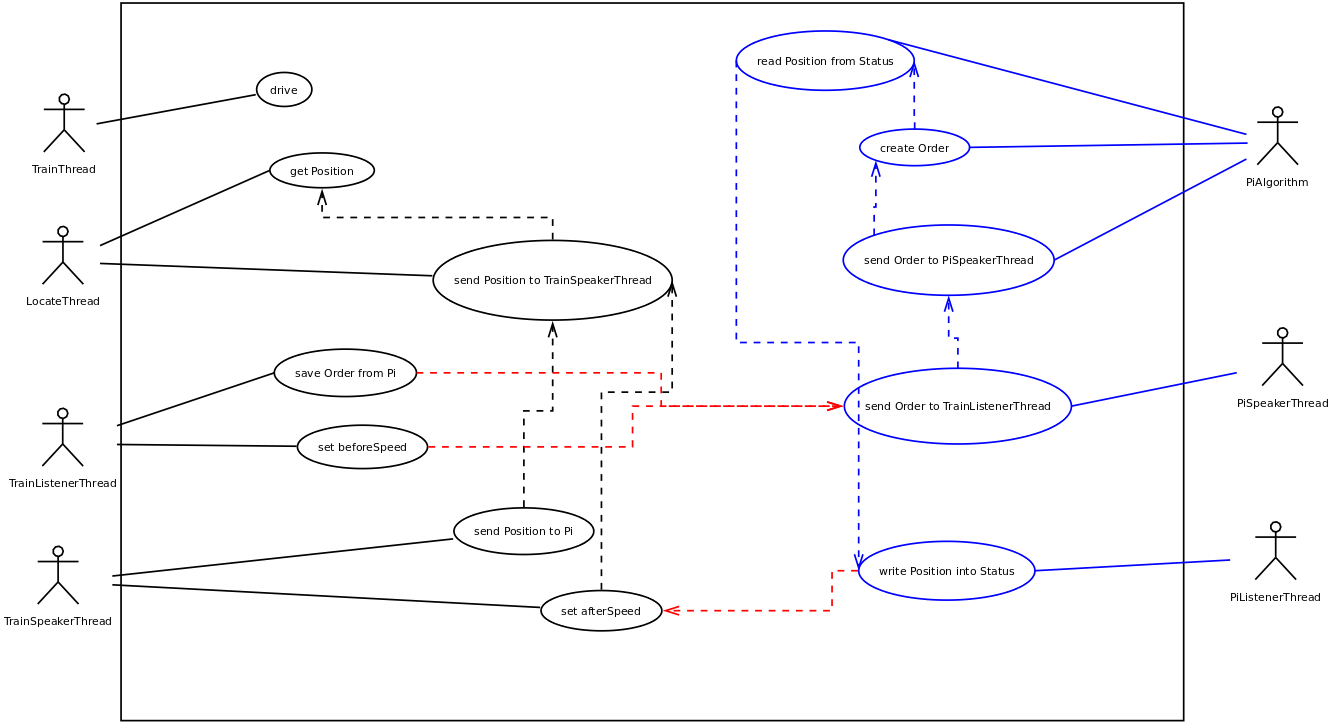
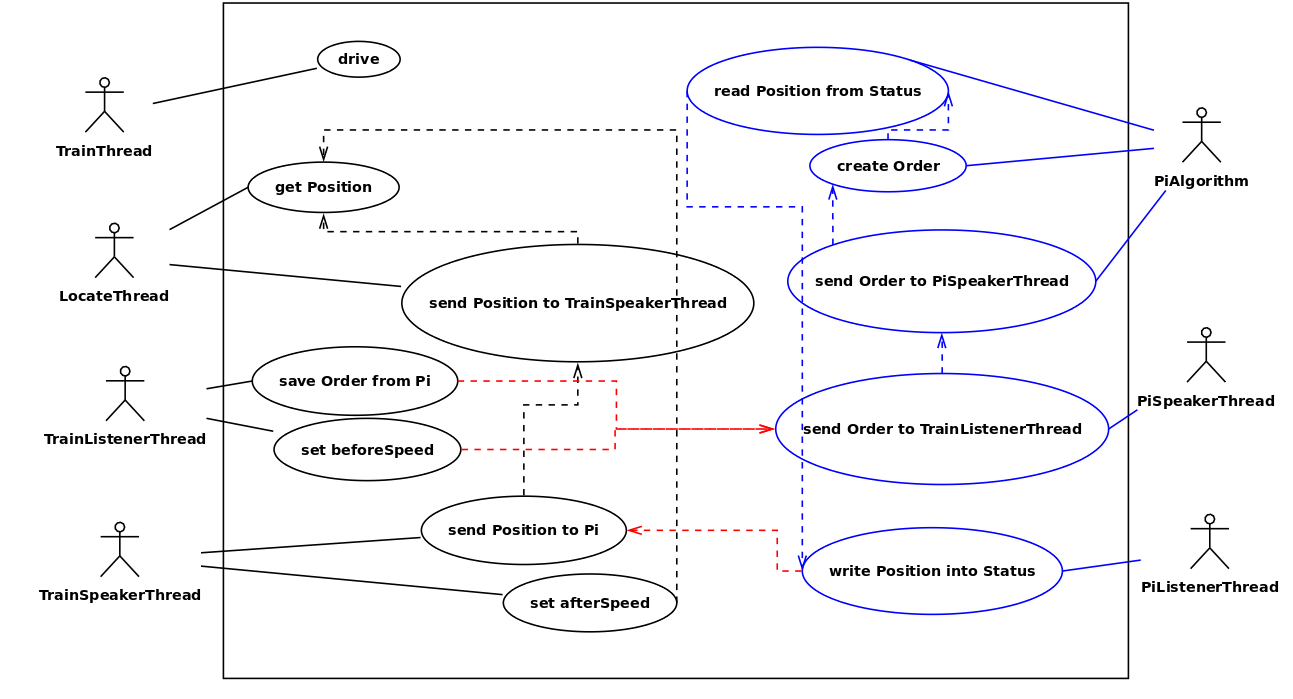
minor changes, added some graphics

diff --git a/Dokumentation/content/alg.tex b/Dokumentation/content/alg.tex
@@ -132,7 +132,7 @@ Dabei sind folgende Bemerkungen wichtig:\\
 \label{pic:DiagonaleVersetzt}
 \end{figure}
 \noindent
-Damit man die Versetzung der Hauptdiagonale besser versteht, kann man sich die vorgenommene Transformation der Matrix folgend vorstellen: Die ersten zwei Zeilen werden ausgeschnitten und nach der Zeile "B2" hinzugefügt. So definiert die Startposition des Zuges immer die "pseudo-erste" Zeile der Matrix. Dabei werden die Elemente in der Matrix nicht unnötig kopiert - die Iteration durch die Matrix wird später lediglich anhand des Modulo-Operators angepasst. Aus Bequemlichkeit betrachten wir nun das Beispiel, in dem der Zug am Bahnhof 0 startet.\\
+Damit man die Versetzung der Hauptdiagonale besser versteht, kann man sich die vorgenommene Transformation der Matrix folgend vorstellen: Die ersten zwei Zeilen werden ausgeschnitten und nach der Zeile "B3" hinzugefügt. So definiert die Startposition des Zuges immer die "pseudo-erste" Zeile der Matrix. Dabei werden die Elemente in der Matrix nicht unnötig kopiert - die Iteration durch die Matrix wird später lediglich anhand des Modulo-Operators angepasst. Aus Bequemlichkeit betrachten wir nun das Beispiel, in dem der Zug am Bahnhof 0 startet.\\
 \\
 \textit{\textbf{Wie erstellt der Algorithmus die Liste von Anweisungen?}\\}
 \\
@@ -156,6 +156,7 @@ Die Matrix wird dreimal durchgelaufen.\\
 4) Nun muss man das letzte Element mit dem Wert "true" in \textit{stop} finden. Dies ist die Endstation des Zuges. Falls ein solches gar nicht vorhanden ist, hat der Zug laut der Eingabe des Nutzers nichts zu tun. In unserem Fall sieht das Feld \textit{stop} folgendermaßen aus:\\
 \begin{figure}[H]	
 \caption{Hilfsfeld \textit{stop}}
+\center
 \includegraphics[width=2\textwidth, width=290pt]{content/images/stop1.png}
 \label{pic:stop1}
 \end{figure}
@@ -183,7 +184,8 @@ Damit die Aufgabe schwieriger wird und gleichzeitig um den oben genannten Ansatz
 \\
 \begin{figure}[H]	
 \caption{Szenario 2}
-\includegraphics[width=2\textwidth, width=450pt]{content/images/szenario2.png}
+\center
+\includegraphics[width=2\textwidth, width=350pt]{content/images/szenario2.png}
 \label{pic:szenario2}
 \end{figure}
 \noindent
@@ -219,7 +221,7 @@ Es kann passieren, dass der Zug einen RFID-Tag überfährt, ohne ihn zu erkennen
 \chapter{Semaphore}
 Die Semaphore und ihr Einsatz werden anhand der Implementierung an der Pi-Seite erklärt.\\
 \\
-Nachdem der Algorithmus die Eingaben des Nutzers gespeichert hat, braucht er die Start-Position des Zuges, damit er die Liste von Anweisungen erstellen kann. Diese erfährt er mithilfe von der Methode \textit{readTrainPosition()}. Der Wert darf allerdings erst dann gelesen werden, wenn der Zug ihn dem PiListenerThread mitgeteilt hat. Bevor das passiert, darf der Algorithmus nichts machen und muss blockiert sein. Die einfache Lösung, die sich anbieten könnte, besteht darin, dass man eine weitere Methode \textit{algorithmCanRead()} hinzufügt, die ein "Flag" - eine boolesche Variable überprüft, die vom PiListenerThread auf "erlaubt" gesetzt wird, sobald die Position aktualisiert wurde. Der Algorithmus liest die Position und setzt das "Flag" selbst auf "nicht erlaubt" - damit er sie nicht wieder liest, bevor eine neue Position vom Zug mitgeteilt worden ist. Das Wort "blockiert" ist hier entscheidend. Wie oft soll das "Flag" überprüft werden? Wie lange soll der Algorithmus blockiert werden? Wie bekommt er rechtzeitig mit, dass die Position aktualisiert wurde? Der oben genannte Ansatz verlängt Polling, d.h. Ressourcen(Rechenzeit)-Verschwendung. Die richtige Lösung an dieser Stelle ist der Einsatz von Semaphoren.\\
+Nachdem der Algorithmus die Eingaben des Nutzers gespeichert hat, braucht er die Start-Position des Zuges, damit er die Liste von Anweisungen erstellen kann. Diese erfährt er mithilfe von der Methode \textit{readTrainPosition()}. Der Wert darf allerdings erst dann gelesen werden, wenn der Zug ihn dem PiListenerThread mitgeteilt hat. Bevor das passiert, darf der Algorithmus nichts machen und muss blockiert sein. Die einfache Lösung, die sich anbieten könnte, besteht darin, dass man eine weitere Methode \textit{algorithmCanRead()} hinzufügt, die ein "Flag" - eine boolesche Variable - überprüft, die vom PiListenerThread auf "erlaubt" gesetzt wird, sobald die Position aktualisiert wurde. Der Algorithmus liest die Position und setzt das "Flag" selbst auf "nicht erlaubt" - damit er sie nicht wieder liest, bevor eine neue Position vom Zug mitgeteilt worden ist. Das Wort "blockiert" ist hier entscheidend. Wie oft soll das "Flag" überprüft werden? Wie lange soll der Algorithmus blockiert werden? Wie bekommt er rechtzeitig mit, dass die Position aktualisiert wurde? Der oben genannte Ansatz verlängt Polling, d.h. Ressourcen(Rechenzeit)-Verschwendung. Die richtige Lösung an dieser Stelle ist der Einsatz von Semaphoren.\\
 \\
 Rhapsody bietet eine Factory von Semaphoren an. Ein Factory-Objekt verfügt über eine Methode \textit{createOMOSSemaphore()}, die den Zeiger auf eine neuerstellte Semaphore zurückliefert. Bei der Erzeugung kann man definieren, ob die Semaphore frei ist oder blockieren soll (das Attribut \textit{initialCount}, by default gleich 1) und wie groß der maximale Wert (das Attribut \textit{maxCount}, bezeichnet die Anzahl von Ressourcen, by default auch 1) sein soll. Die Semaphore bietet die Methoden \textit{p()} (Ressource nehmen) und \textit{v()} (Ressource freigeben), die hier \textit{wait(-1)} und \textit{signal()} genannt werden. Wenn ein Thread \textit{wait(-1)} aufruft, während \textit{initialCount} den Wert 0 hat (keine Ressourcen vorhanden), wird er blockiert. \textit{Signal}() blockiert, wenn \textit{initialCount} gleich \textit{maxCount} ist, allerdings nicht bei allen Plattformen.\\
 In unserem Fall ist es wichtig, dass signal() auch blockiert, denn wir wollen nicht, dass der PiListenerThread die Position des Zuges aktualisiert, bevor der Algorithmus (der aus irgendwelchem Grund zu langsam war) die alte Position einmal gelesen hat. Dies würde dazu führen, dass der Algorithmus nicht mitbekommt, dass der Zug da war, wo er sein musste, und dass der Zug seine Position richtig erkannt hat, und es wird \textit{repairOrderlist}()-Methode aufgerufen.\\

diff --git a/Dokumentation/content/architecture.tex b/Dokumentation/content/architecture.tex
@@ -1,8 +1,8 @@
 \chapter{Architektur}
-Nachdem wir unser Projektziel für uns gesetzt hatten, mussten wir überlegen, wie es sich realisieren lässt. Als erstes einigten wir uns darauf, dass wir einen Raspberry Pi für die externe Zugsteuerung benutzen. Dann mussten wir uns überlegen, wie wir den Zug mit dem Raspberry Pi kommunizieren lassen, damit die Geräte Information zwischen einander austauschen können. Bevor wir das allerdings entscheiden konnten, haben wir geschaut was der Zug und der Raspberry Pi machen müssen.
-
-Zuerst haben wir uns überlegt, was der Zug können muss, was vereinfacht gesagt lediglich das Transportieren von Fahrgästen von einem Bahnhof zu einem anderen Bahnhof ist. Daraus konnten wir ableiten, dass die Erkennung seiner aktuellen Position eine der wichtigsten Aufgaben des Zuges ist, denn wenn wir nicht wissen, wo der Zug ist, können wir ihm auch nicht sagen, wo er hinfahren soll. Des weiteren muss der Zug einstellen können, wie schnell er fährt, und Information übermitteln können. Damit hatten wir den ersten Entwurf der Funktionalität des Zuges bestimmt und konnten uns dem Raspberry Pi zuwenden. Dieser muss als eine externe Steuereinheit bestimmen, welchen Weg der Zug fahren soll. Dazu braucht er die Informationen über die Position des Zuges, an welchem Bahnhof Personen stehen und wohin diese gehen wollen. Des weiteren muss er dem Zug übermitteln können, wohin er als nächstes fahren soll. Mit unseren Überlegungen hatten wir schon automatisch unsere dritte Frage beantwortet. Denn der Zug muss dem Raspberry Pi seine aktuelle Position übermitteln und der Raspberry Pi muss dem Zug einen Befehl schicken, wohin und mit welcher Geschwindigkeit er als nächstes fahren soll. 
-
+Nachdem wir unser Projektziel für uns gesetzt hatten, mussten wir überlegen, wie es sich realisieren lässt. Als erstes einigten wir uns darauf, dass wir einen Raspberry Pi für die externe Zugsteuerung benutzen. Dann mussten wir uns überlegen, wie wir den Zug mit dem Raspberry Pi kommunizieren lassen, damit die Geräte Information zwischen einander austauschen können. Bevor wir das allerdings entscheiden konnten, haben wir geschaut was der Zug und der Raspberry Pi machen müssen.\\
+\\
+Zuerst haben wir uns überlegt, was der Zug können muss, was vereinfacht gesagt lediglich das Transportieren von Fahrgästen von einem Bahnhof zu einem anderen Bahnhof ist. Daraus konnten wir ableiten, dass die Erkennung seiner aktuellen Position eine der wichtigsten Aufgaben des Zuges ist, denn wenn wir nicht wissen, wo der Zug ist, können wir ihm auch nicht sagen, wo er hinfahren soll. Des weiteren muss der Zug einstellen können, wie schnell er fährt, und Information übermitteln können. Damit hatten wir den ersten Entwurf der Funktionalität des Zuges bestimmt und konnten uns dem Raspberry Pi zuwenden. Dieser muss als eine externe Steuereinheit bestimmen, welchen Weg der Zug fahren soll. Dazu braucht er die Informationen über die Position des Zuges, an welchem Bahnhof Personen stehen und wohin diese gehen wollen. Des weiteren muss er dem Zug übermitteln können, wohin er als nächstes fahren soll. Mit unseren Überlegungen hatten wir schon automatisch unsere dritte Frage beantwortet. Denn der Zug muss dem Raspberry Pi seine aktuelle Position übermitteln und der Raspberry Pi muss dem Zug einen Befehl schicken, wohin und mit welcher Geschwindigkeit er als nächstes fahren soll. \\
+\\
 Nachdem wir unsere Fragen beantwortet hatten, wollten wir diese mit Hilfe eines Klassendiagramms konkretisieren (siehe Abbildung \ref{pic:ClassDiagram}). Im Nachfolgenden sind alle Klassen, die Thread in ihrem Namen haben, auch Threads. \textit{LocateThread} in der Train-Komponente des Klassendiagramms beschäftigt sich ausschließlich mit der Bestimmung der Position des Zuges. Zur Bestimmung der Position haben wir auf der Strecke RFID-Tags verteilt, die \textit{LocateThread} beim Überfahren lesen kann und die er weiter an \textit{TrainSpeakerThread} schickt. Dieser vergleicht nach dem Erhalten der Position diese mit der eingetragenen Position in \textit{Order}. Falls die Positionen sich unterscheiden, ist entweder etwas schiefgelaufen oder der Zug ist gerade erst angefahren und hat zum ersten mal seine Position bestimmt. In beiden Fällen wird die Geschwindigkeit des Zuges auf 0 gesetzt und er wartet somit auf weitere Befehle. Falls die Positionen gleich sind, wird die \textit{afterSpeed} Geschwindigkeit aus \textit{Order} genommen und dem \textit{TrainThread} übermittelt, welcher dann diese Geschwindigkeit setzt. Als letztes schickt \textit{TrainSpeakerThread} über eine Socket-Verbindung die Position des Zuges an den Raspberry Pi. Diese Nachricht kommt dann an \textit{PiListenerThread}, welcher diese in \textit{TrainStatus} abspeichert. Danach kann \textit{PiAlgorithm} die aktuelle Position des Zuges aus \textit{TrainStatus} auslesen und bestimmen, wohin der Zug als nächstes fahren soll(genaueres wird im Kapitel Algorithmus erklärt). Diesen Befehl schickt er an \textit{PiSpeakerThread}, welcher diesen weiter über die Socket-Verbindung schickt. Der Befehl wird von \textit{TrainListenerThread} erhalten, welcher den Befehl in \textit{Order} speichert. Zuletzt wird noch die \textit{beforeSpeed} Geschwindigkeit, die im Befehl enthalten ist, an den \textit{TrainThread} übermittelt, welcher dann die Geschwindigkeit des Zuges darauf setzt. Damit hätte man einen gesamten Durchlauf gemacht, welcher wieder von Neuem beginnt, wenn der Zug eine neue Position liest.  
 
 
@@ -12,10 +12,14 @@ Nachdem wir unsere Fragen beantwortet hatten, wollten wir diese mit Hilfe eines 
 \label{pic:ClassDiagram}
 \end{figure}
 
-
-
 \begin{figure}[H]	
 \caption{Use Case Diagramm}
 \includegraphics[width=2\textwidth, width=465pt]{content/images/UseCaseDia.png}
 \label{pic:UseCaseDiagram}
+\end{figure}
+
+\begin{figure}[H]	
+\caption{Beschreibung von ausgewählten Use Cases}
+\includegraphics[width=2\textwidth, width=445pt]{content/images/UseCase1.png}
+\label{pic:UseCase1}
 \end{figure}
